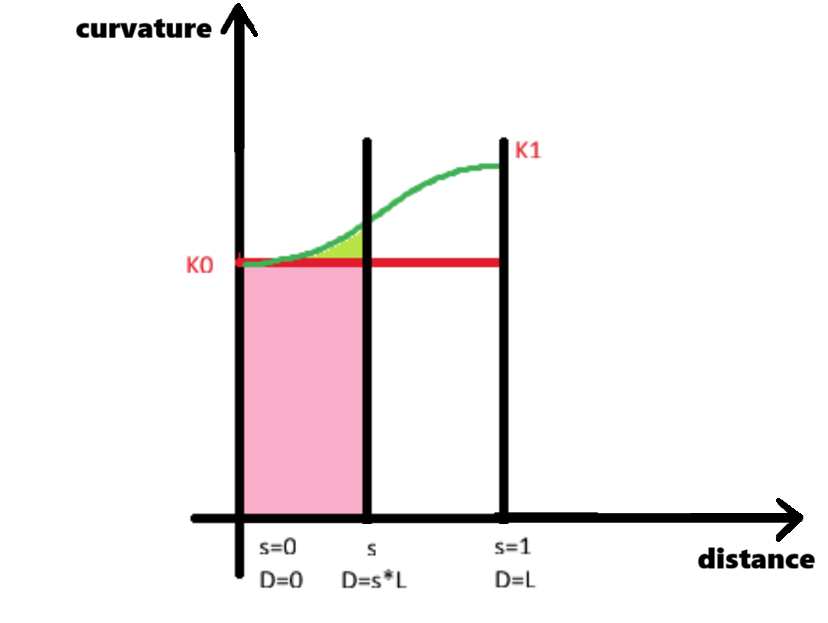
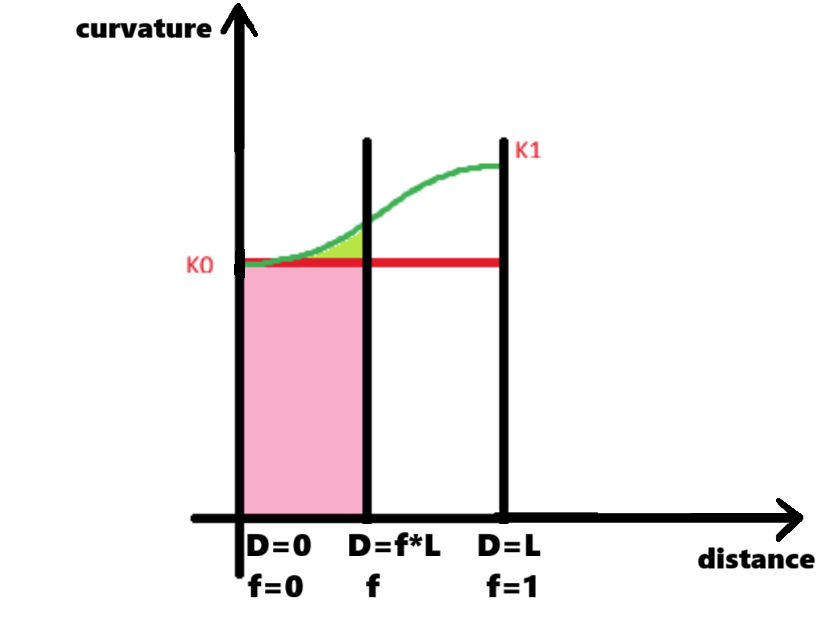
Addressed PR reveiw comments

diff --git a/core/geometry/internaldocs/Spiral.md b/core/geometry/internaldocs/Spiral.md
@@ -11,37 +11,56 @@ Mathematically, a spiral can be described in polar coordinates $(r,θ)$ where $r
 *Archimedean Spiral:*
 $$r=a+bθ$$
 Parametric (Cartesian) form:
-$$x(θ)=(a+bθ)cosθ \\ y(θ)=(a+bθ)sinθ$$
+$$
+\begin{aligned}
+x(θ)=(a+bθ)\cosθ \\
+y(θ)=(a+bθ)\sinθ
+\end{aligned}
+$$
 
 *Logarithmic Spiral:*
 $$r=ae^{bθ}$$
 Parametric (Cartesian) form:
-$$x(θ)=ae^{bθ}cosθ \\ y(θ)=ae^{bθ}sinθ$$
+$$
+\begin{aligned}
+x(θ)=ae^{bθ}\cosθ \\
+y(θ)=ae^{bθ}\sinθ
+\end{aligned}
+$$
 
 **Note:** core-geometry does not currently support Archimedean or logarithmic spirals, and there are no plans to implement them. Their inclusion here is solely to illustrate the mathematical concepts behind spirals.
 -----------
 
-Another way to represent a spiral is via its curvature. In general, for a curve parameterized by curve length $\bar{s}$ we have:
+Another way to represent a spiral is via its curvature. In general, for a curve parameterized by curve length $s$ we have:
 
-$$\frac{dθ}{d\bar{s}} = κ(\bar{s})$$
+$$\frac{dθ}{ds} = κ(s)$$
 
-where where $κ(\bar{s})$ is curvature. If $p$ is the position vector we have
+where where $κ(s)$ is curvature and $θ$ is not the same theta as the polar coordinate. Here, $θ$ is a function of arc length: it is the angle that the tangent vector of the curve at arc length $s$ makes with the $x$-axis. That "the derivative of theta is the curvature function" is a consequence of the Frenet-Serre formulas, which apply to all 3D curves with nonzero curvature.
 
-$$p(s) = (x'(\bar{s}),y'(\bar{s})) = (cosθ(\bar{s}), sinθ(\bar{s}))$$
+If we integrate and change variable from $s$ to $f$ we get
+
+$$θ(s)= \int_{0}^{Lf} κ(u)du \tag{*}$$
+
+because fraction $f(s) = \frac{s}{L}$ so $s(f) = Lf$ where $L$ is the spiral length from fraction 0 to $f$.
+
+If $T$ is the unit tangent vector we have
+
+$$T(s) = (x'(s),y'(s)) = (\cosθ(s), \sinθ(s))$$
 
 so integrating gives positions:
 
-$$x(\bar{s})= \int_{0}^{\bar{s}} cosθ(u)du \\ y(\bar{s})= \int_{0}^{\bar{s}} sinθ(u)du $$
+$$
+\begin{aligned}
+x(s)= \int_{0}^{s} \cosθ(u)du \\
+y(s)= \int_{0}^{s} \sinθ(u)du
+\end{aligned}
+$$
 
-For a spiral defined by curvature varying smoothly with length, we have fraction $s = \frac{\bar{s}}{L}$ or $\bar{s} = Ls$ where $L$ is the total spiral length. This gives:
-
-$$θ(s)= \int_{0}^{Ls} κ(u)du$$
-
-Replacing this into previous formula and switching variable to fraction form gives:
+Replacing equation (*) this and switching variable to fraction form gives:
 
 $$\boxed{
 \begin{aligned}
-  x(s)= L \int_{0}^{s} \Bigl(\int_{0}^{Lu} 𝜅(v)dv\Bigl) du \\ y(s)= L \int_{0}^{s} \Bigl(\int_{0}^{Lu} 𝜅(v)dv\Bigl) du
+  x(f)= L \int_{0}^{f} \cos\Bigl(\int_{0}^{Lu} 𝜅(v)dv\Bigl) du \\ y(f)= L \int_{0}^{f} \sin\Bigl(\int_{0}^{Lu} 𝜅(v)dv\Bigl) du
 \end{aligned}
 }$$
 
@@ -50,11 +69,16 @@ $$\boxed{
 *Clothoid (Euler Spiral)*
 
 Curvature $𝜅$ increases linearly with arc length $s$:
-$$𝜅(s) = cs \Rightarrow θ(s) = \frac{cs^2}{2} $$
+$$𝜅(f) = cf \Rightarrow θ(f) = \frac{cf^2}{2} $$
 where $c$ is a constant.
 
 Parametric (Cartesian) form:
-$$x(s)= \int_{0}^{s} cos\Bigl(\frac{cu^2}{2}\Bigl)du \\ y(s)= \int_{0}^{s} sin\Bigl(\frac{cu^2}{2}\Bigl)du $$
+$$
+\begin{aligned}
+x(f)= \int_{0}^{f} \cos\Bigl(\frac{cu^2}{2}\Bigl)du \\
+y(f)= \int_{0}^{f} \sin\Bigl(\frac{cu^2}{2}\Bigl)du
+\end{aligned}
+$$
 
 ![>](./figs/Spiral/spirals.png)
 
@@ -67,7 +91,7 @@ Parent class for all iTwin spirals is `TransitionSpiral3d` which is extended by 
 `TransitionSpiral3d` class has an member called `TransitionConditionalProperties` which encapsulates 5 elements: `radius0`, `radius1`, `bearing0`, `bearing1`, and `curveLength`.
 
 We already know:
-$$θ(s)= \int_{0}^{Ls} 𝜅(u)du$$
+$$θ(f)= \int_{0}^{Lf} 𝜅(u)du$$
 This can be rewritten as
 $$θ_1 - θ_0 = L \bar{𝜅} = L \frac{𝜅_0 + 𝜅_1}{2}$$
 where $\bar{𝜅}$ is curvature average, $θ_0$ is `bearing0`, $θ_1$ is `bearing1`, $L$ is `curveLength`, $𝜅_0$ is `1/radius0`, and $𝜅_1$ is `1/radius1`.
@@ -82,7 +106,7 @@ The spiral $x$ and $y$ coordinates is calculated by
 
 $$\boxed{
 \begin{aligned}
-  x(s)= L \int_{0}^{s} \Bigl(\int_{0}^{Lu} 𝜅(v)dv\Bigl) du \\ y(s)= L \int_{0}^{s} \Bigl(\int_{0}^{Lu} 𝜅(v)dv\Bigl) du
+  x(f)= L \int_{0}^{f} \cos\Bigl(\int_{0}^{Lu} 𝜅(v)dv\Bigl) du \\ y(f)= L \int_{0}^{f} \sin\Bigl(\int_{0}^{Lu} 𝜅(v)dv\Bigl) du
 \end{aligned}
 }$$
 
@@ -115,19 +139,24 @@ public globalFractionToBearingRadians(fraction: number): number {
 
 Direct spirals do not use integration to calculate $x$ and $y$ coordinates. Instead they use direct formulas to find coordinates.
 
-The 4 spirals `JapaneseCubic`, `Arema`, `ChineseCubic`, and `WesternAustralian` have a formula for $θ$ (which is $θ(s) = c*s^2$).
+The 4 spirals `JapaneseCubic`, `Arema`, `ChineseCubic`, and `WesternAustralian` have a formula for $θ$ (which is $θ(s) = c*s^2$). These formulae use truncated Taylor series to approximate the clothoid integrands by polynomials, which we can integrate directly (without quadrature).
 
 To find the $x$ and $y$ coordinates for each one of those 4 spirals:
 
-- We find Taylor series of $cos(θ)$ and $sin(θ)$
+- We find Taylor series of $\cos(θ)$ and $\sin(θ)$
 - We pick a couple of $x$ and $y$ terms in the series
-- We replace $θ(s)$ with $c*s^2$
+- We replace $θ(f)$ with $c*f^2$
 - We integrate
 
 All these steps are done in `ClothoidSeriesRLEvaluator`.
 
 The 5 spirals `AustralianRailCorp `, `Czech`, `Italian`, `MXCubicAlongArc`, and `Polish` are indeed NOT spirals`. Those are just cubic curves defined by
-$$x(s)= sL \\ y(s) = cs^3$$
+$$
+\begin{aligned}
+x(f)= fL \\
+y(f) = cf^3
+\end{aligned}
+$$
 that briefly take off from the x axis "like a spiral".
 
 All of these 5 spirals extend `CubicEvaluator` class.
